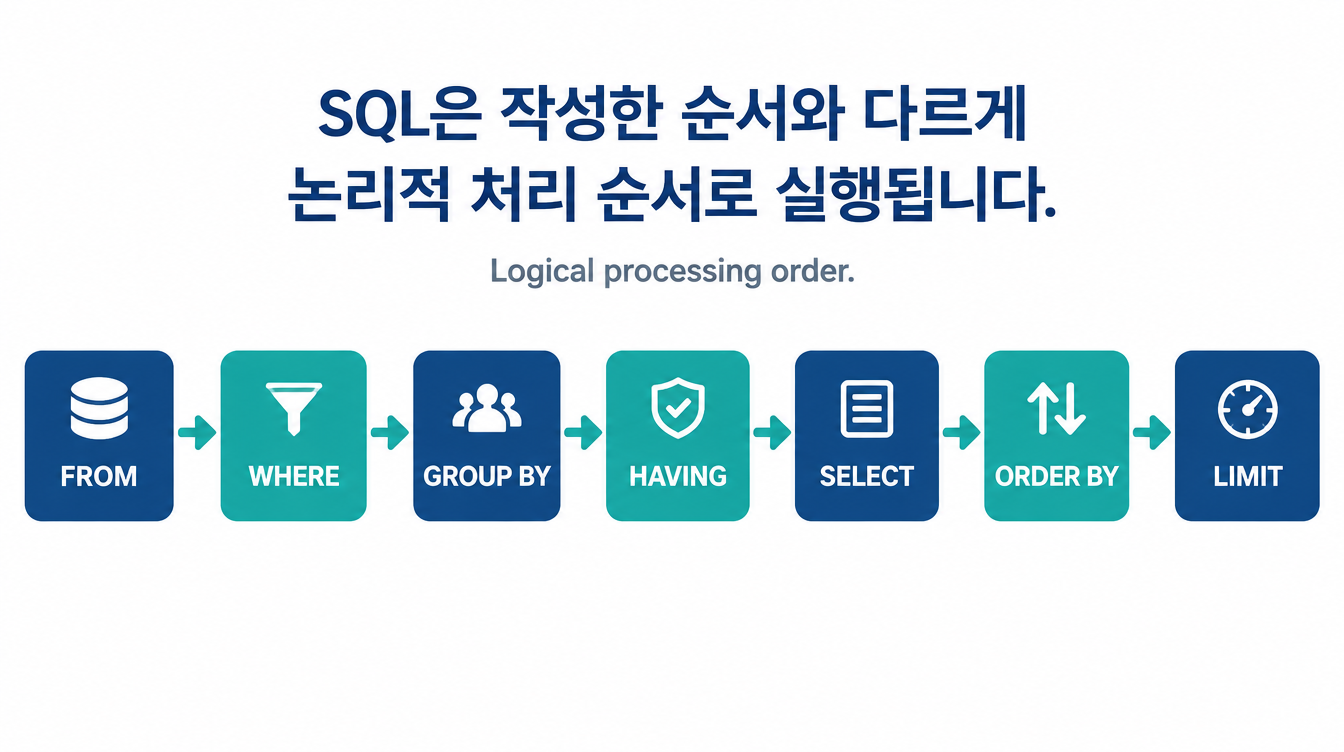
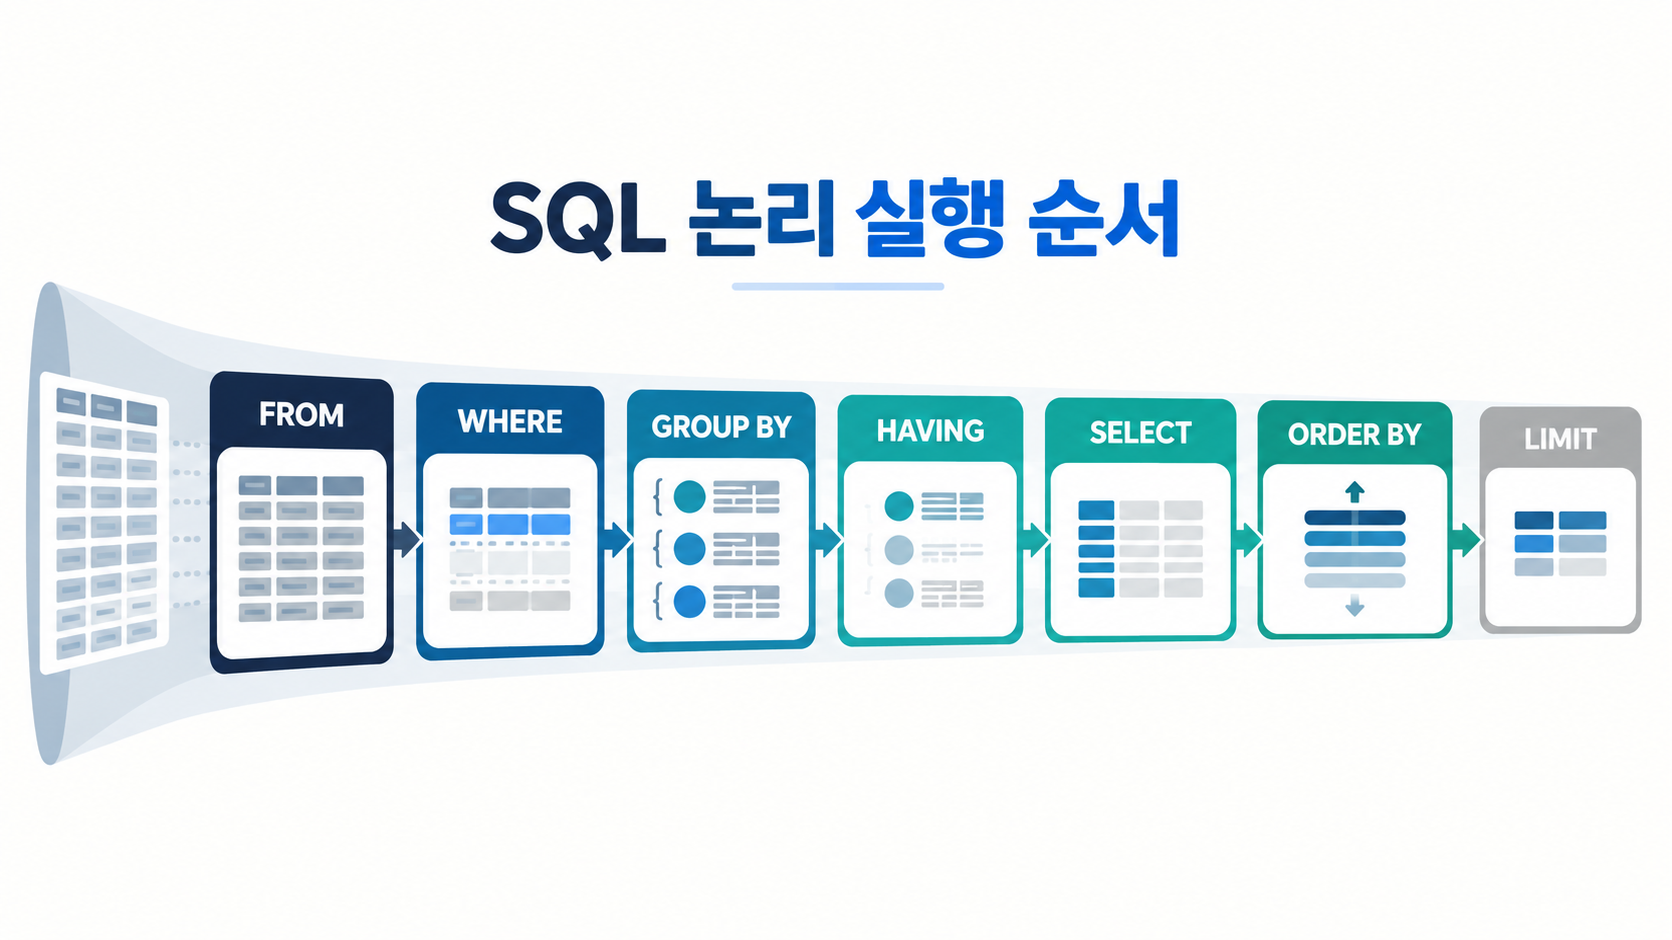
Replace database visuals with GPT-generated images

Changed region(s): [[0.0, 0.0918, 1.0, 0.8258]]

diff --git a/0928_관계형데이터베이스설계.md b/0928_관계형데이터베이스설계.md
@@ -108,7 +108,7 @@ CREATE TABLE order_items (
 
 후보키는 행을 유일하게 식별하면서, 어떤 구성 요소도 더 뺄 수 없는 최소성을 가진다. 실무에서는 무조건 가장 높은 정규형을 목표로 하기보다 중복과 일관성 위험, 조회 패턴을 함께 본다. 먼저 올바른 구조를 만들고, 성능 때문에 비정규화한다면 중복값을 어떻게 동기화할지도 설계해야 한다.
 
-![중복 테이블을 고객, 주문, 상품 테이블로 분리하고 기본키와 외래키로 연결한 정규화 도식](images/database-normalization.png)
+![중복 테이블을 고객, 주문, 상품, 주문항목 테이블로 분리하고 기본키와 외래키로 연결한 정규화 도식](images/database-normalization.png)
 
 ## 6. DDL은 설계 결정을 데이터베이스에 새긴다
 
